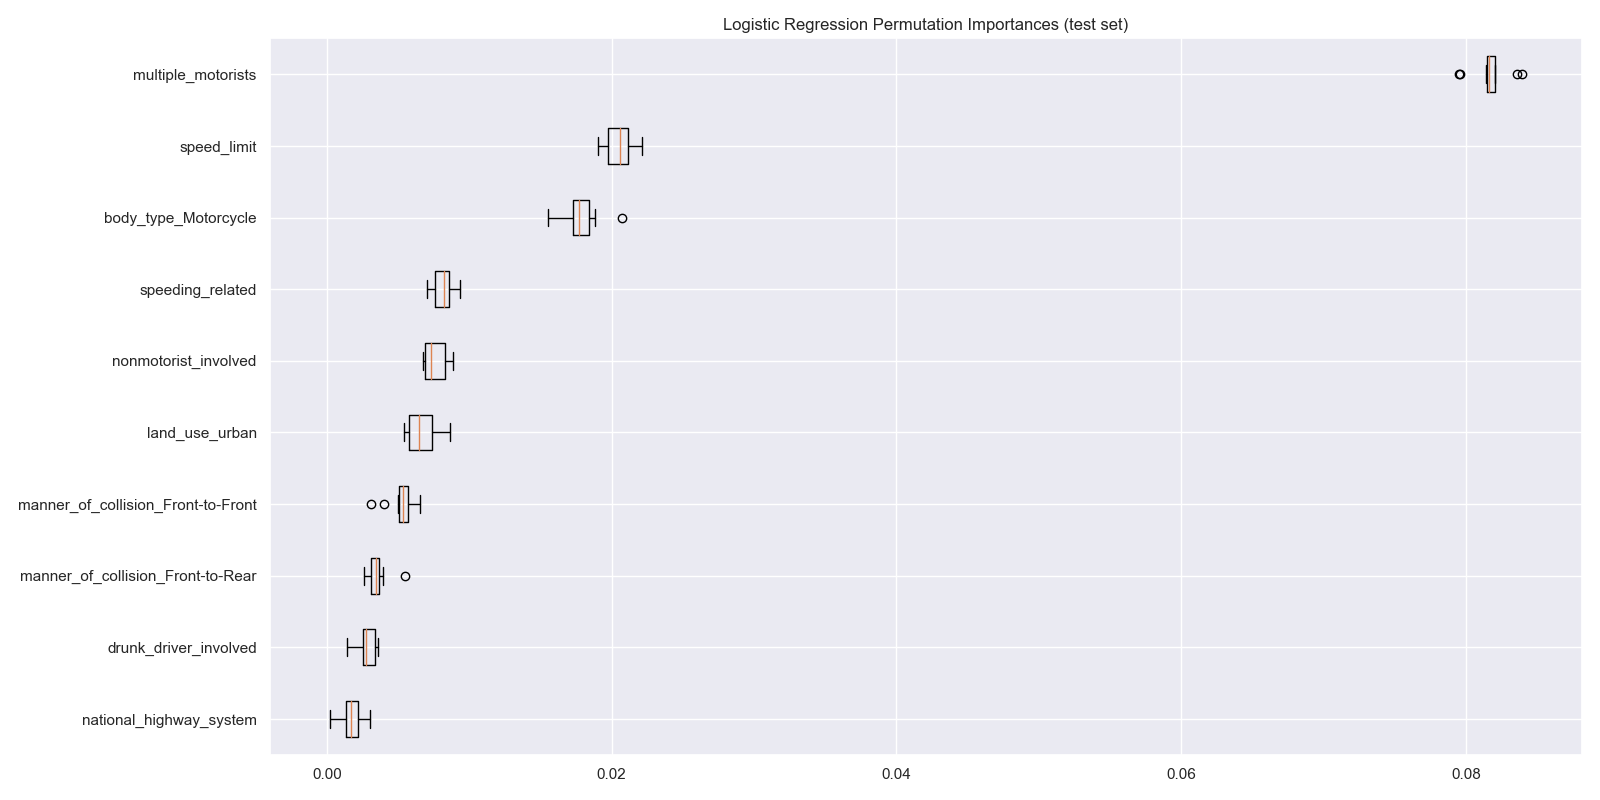
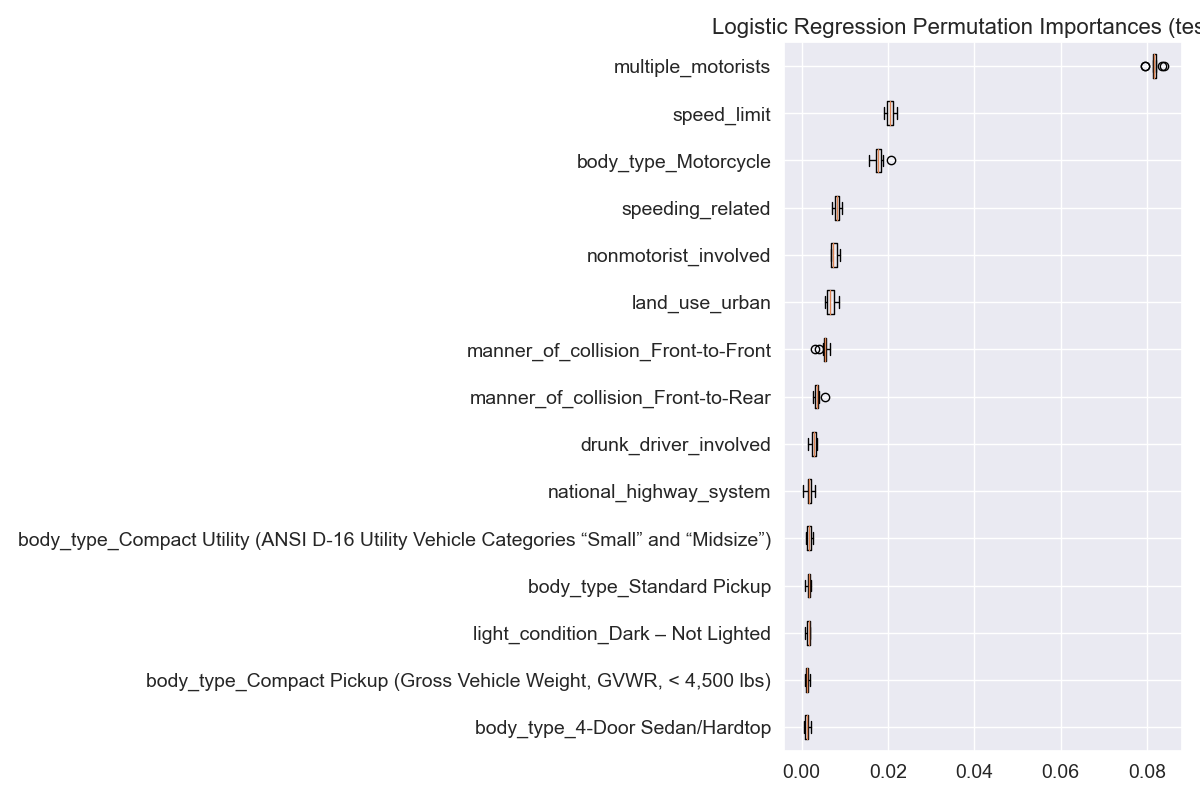
plot sizes

diff --git a/persons/models.py b/persons/models.py
@@ -22,11 +22,13 @@ def main():
     labels = data['fatality']
     features = data[cat_cols + binary_cols + numeric_cols]
 
-    features = pd.get_dummies(features, columns=cat_cols)
+    # features = pd.get_dummies(features, columns=cat_cols)
+    # features.rename(columns={'manner_of_collision_Not Collision with Motor Vehicle in Transport (Not Necessarily in Transport for\n2005-2009)': 'manner_of_collision_Not Collision with Motor Vehicle in Transport'},
+    #                 inplace=True)
     feature_names = features.columns
 
-    # oe = OrdinalEncoder()
-    # features = oe.fit_transform(features)
+    oe = OrdinalEncoder()
+    features = oe.fit_transform(features)
 
     scaler = StandardScaler()
     features = scaler.fit_transform(features)
@@ -59,10 +61,10 @@ def main():
         y_probs = model.predict_proba(X_test)[:, 1]
 
         utils.print_metrics(y_test, y_pred)
-        utils.roc_curve(y_test, y_probs, name, suffix + '_ohe')
-        utils.feature_importance(model, feature_names, name, suffix + '_ohe')
-        utils.permutation_importances(model, X_test, y_test, feature_names, name, suffix + '_ohe')
-        utils.permutation_importances(model, X_train, y_train, feature_names, name, suffix + '_ohe', dataset='train')
+        utils.roc_curve(y_test, y_probs, name, suffix)
+        utils.feature_importance(model, feature_names, name, suffix)
+        utils.permutation_importances(model, X_test, y_test, feature_names, name, suffix)
+        # utils.permutation_importances(model, X_train, y_train, feature_names, name, suffix + '_ohe', dataset='train')
         print('#' * 50)
 
 

diff --git a/utils.py b/utils.py
@@ -66,12 +66,12 @@ def feature_importance(model, feature_names, name, suffix, n_features=15):
     except AttributeError:
         try:
             feature_importances = model.coef_[0]
-            sorted_idx = abs(feature_importances).argsort()[:n_features]
+            sorted_idx = abs(feature_importances).argsort()[-n_features:]
         except AttributeError as ae:
             print(ae)
             sys.exit(1)
 
-    y_ticks = np.arange(0, n_features)
+    y_ticks = np.arange(0, len(feature_importances))
     fig, ax = plt.subplots(figsize=(12, 8))
     ax.barh(y_ticks, feature_importances[sorted_idx])
     ax.set_yticklabels(feature_names[sorted_idx])

diff --git a/persons/knn_model.py b/persons/knn_model.py
@@ -22,10 +22,10 @@ def main():
     features = data[cat_cols + binary_cols + numeric_cols]
     feature_names = features.columns
 
-    # oe = OrdinalEncoder()
-    # features = oe.fit_transform(features)
+    oe = OrdinalEncoder()
+    features = oe.fit_transform(features)
 
-    features = pd.get_dummies(features, columns=cat_cols)
+    # features = pd.get_dummies(features, columns=cat_cols)
 
     scaler = StandardScaler()
     features = scaler.fit_transform(features)
